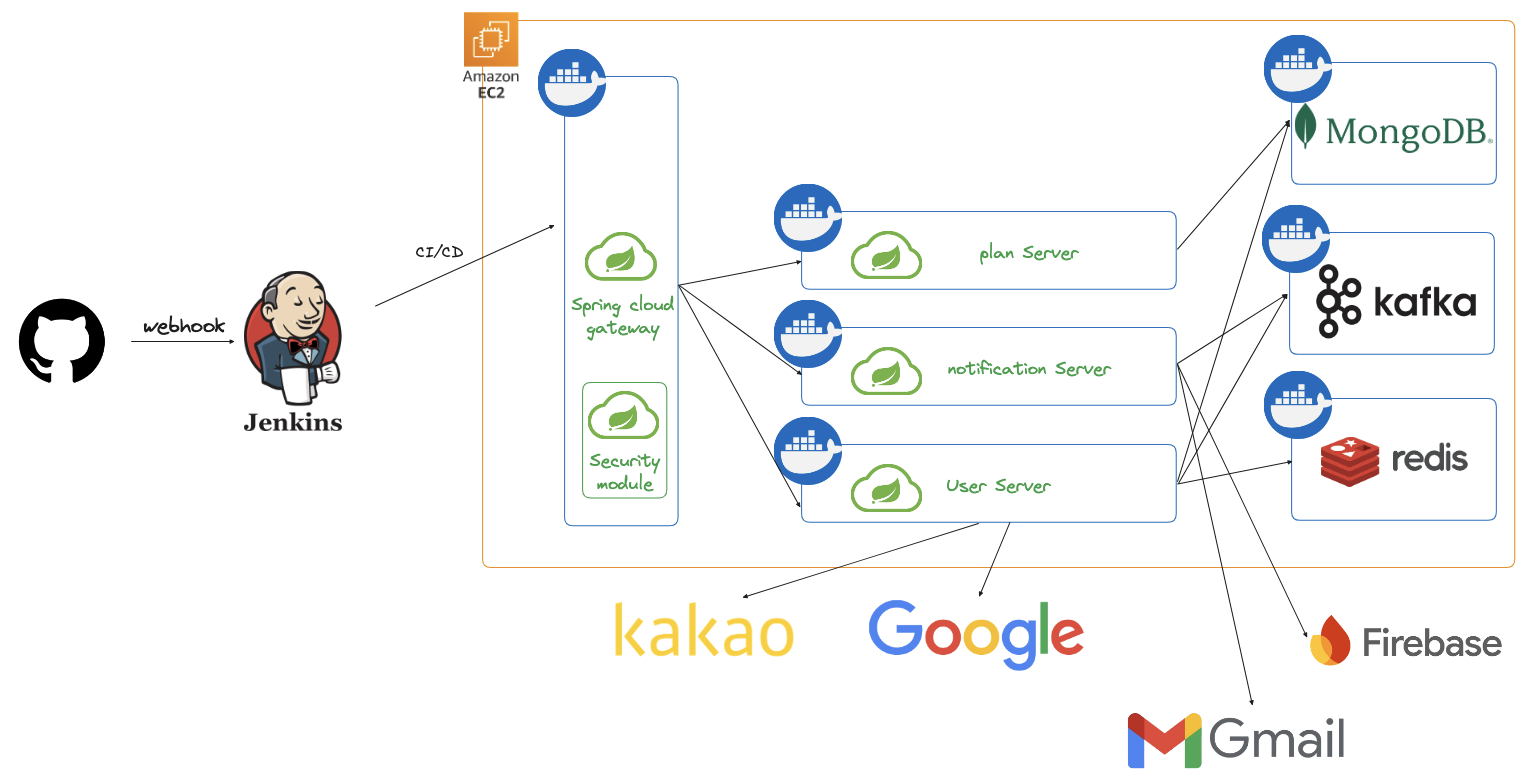
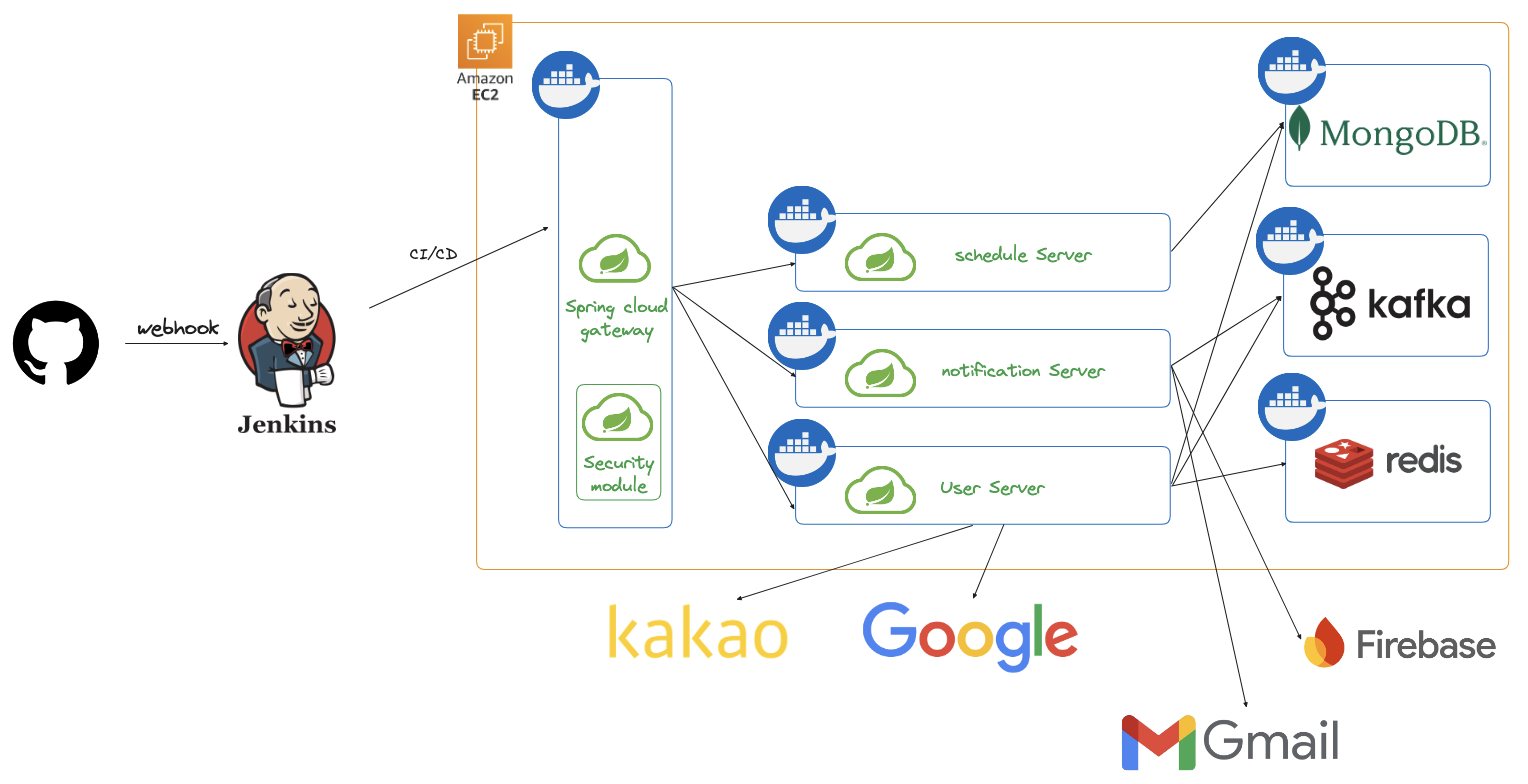
ENH: make schedule module

diff --git a/schedule/presentation/src/main/kotlin/vp/togedo/ScheduleApplication.kt b/schedule/presentation/src/main/kotlin/vp/togedo/ScheduleApplication.kt
@@ -1,0 +1,11 @@
+package vp.togedo
+
+import org.springframework.boot.autoconfigure.SpringBootApplication
+import org.springframework.boot.runApplication
+
+@SpringBootApplication
+class ScheduleApplication
+
+fun main(args: Array<String>) {
+    runApplication<ScheduleApplication>(*args)
+}
